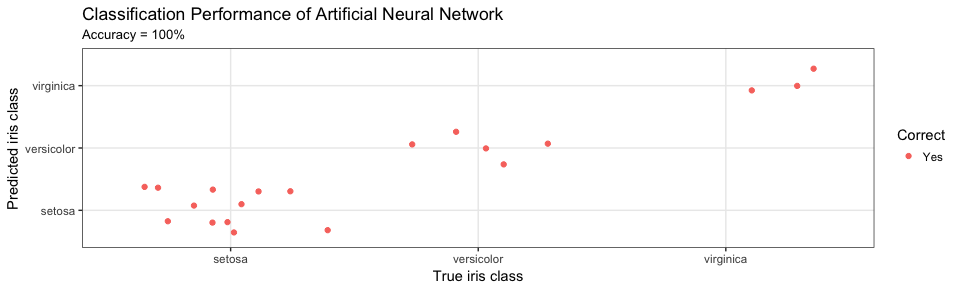
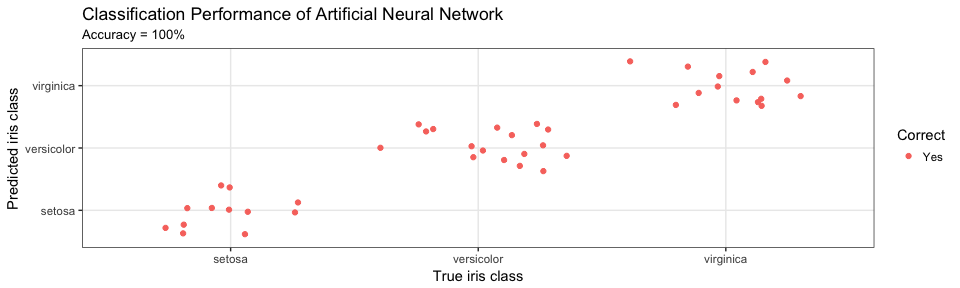
Update README

diff --git a/README.md b/README.md
@@ -1,17 +1,33 @@
 Building a simple neural network using Keras and Tensorflow
 ================
 
-Motivation
-----------
+A minimal example for building your first simple artificial neural network using [Keras and TensorFlow for R](https://tensorflow.rstudio.com/keras/) - Right, let's get to it!
 
-The following is a minimal example for building your first simple artificial neural network using Keras and TensorFlow for R.
+### Data
 
-[TensorFlow for R by Rstudio lives here](https://tensorflow.rstudio.com/keras/).
+[The famous Iris flower data set](https://en.wikipedia.org/wiki/Iris_flower_data_set) contains data to quantify the morphologic variation of Iris flowers of three related species. In other words - A total of 150 observations of 4 input features `Sepal.Length`, `Sepal.Width`, `Petal.Length` and `Petal.Width` and 3 output classes `setosa` `versicolor` and `virginica`, with 50 observations in each class. The distributions of the feature values looks like so:
 
-Gettins started - Install Keras and TensorFlow for R
-----------------------------------------------------
+``` r
+iris %>% as_tibble %>% gather(feature, value, -Species) %>%
+  ggplot(aes(x = feature, y = value, fill = Species)) +
+  geom_violin(alpha = 0.5, scale = "width", position = position_dodge(width = 0.9)) +
+  geom_boxplot(alpha = 0.5, width = 0.2, position = position_dodge(width = 0.9)) +
+  theme_bw()
+```
 
-You can install the Keras for R package from CRAN as follows:
+<img src="README_files/figure-markdown_github/see_iris-1.png" style="display: block; margin: auto;" />
+
+### Aim
+
+Our aim is to connect the 4 input features (`Sepal.Length`, `Sepal.Width`, `Petal.Length` and `Petal.Width`) to the correct output class (`setosa` `versicolor` and `virginica`) using an artificial neural network. For this task, we have chosen the following simple architecture with one input layer with 4 neurons (one for each feature), one hidden layer with 4 neurons and one output layer with 3 neurons (one for each class), all fully connected:
+
+<img src="img/architecture_visualisation.png" width="500px" style="display: block; margin: auto;" />
+
+Our artificial neural network will have a total of 35 parameters: 4 for each input neuron connected to the hidden layer, plus an additional 4 for the associated first bias neuron and 3 for each of the hidden neurons connected to the output layer, plus an additional 3 for the associated second bias neuron. I.e. 4 ⋅ 4 + 4 + 4 ⋅ 3 + 3 = 35
+
+### Install Keras and TensorFlow for R
+
+Before we begin, we need to install [Keras and TensorFlow for R](https://tensorflow.rstudio.com/keras/) as follows:
 
 ``` r
 install.packages("keras")
@@ -24,91 +40,59 @@ library(keras)
 install_keras()
 ```
 
-Naturally, we will also need `TidyVerse`:
+We also need to install [`TidyVerse`](https://www.tidyverse.org/):
 
 ``` r
-# Install from CRAN
 install.packages("tidyverse")
-
-# Or the development version from GitHub
-install.packages("devtools")
-devtools::install_github("hadley/tidyverse")
 ```
 
-Once installed, we simply load the libraries
+### Load libraries
 
 ``` r
 library("keras")
 library("tidyverse")
 ```
 
-Artificial Neural Network Using the Iris Data Set
--------------------------------------------------
-
-Right, let's get to it!
-
-### Data
-
-The famous (Fisher's or Anderson's) `iris` data set contains a total of 150 observations of 4 input features `Sepal.Length`, `Sepal.Width`, `Petal.Length` and `Petal.Width` and 3 output classes `setosa` `versicolor` and `virginica`, with 50 observations in each class. The distributions of the feature values looks like so:
-
-``` r
-iris %>% as_tibble %>% gather(feature, value, -Species) %>%
-  ggplot(aes(x = feature, y = value, fill = Species)) +
-  geom_violin(alpha = 0.5, scale = "width") +
-  theme_bw()
-```
-
-<img src="README_files/figure-markdown_github/see_iris-1.png" style="display: block; margin: auto;" />
-
-### Aim
-
-Our aim is to connect the 4 input features to the correct output class using an artificial neural network. For this task, we have chosen the following simple architecture with one input layer with 4 neurons (one for each feature), one hidden layer with 4 neurons and one output layer with 3 neurons (one for each class), all fully connected:
-
-<img src="img/architecture_visualisation.png" width="500px" style="display: block; margin: auto;" />
-
-Our artificial neural network will have a total of 35 parameters: 4 for each input neuron connected to the hidden layer, plus an additional 4 for the associated first bias neuron and 3 for each of the hidden neurons connected to the output layer, plus an additional 3 for the associated second bias neuron. I.e. 4 ⋅ 4 + 4 + 4 ⋅ 3 + 3 = 35
-
 ### Prepare data
 
 We start with slightly wrangling the iris data set by renaming and scaling the features and converting character labels to numeric:
 
 ``` r
-set.seed(265509)
 nn_dat = iris %>% as_tibble %>%
   mutate(sepal_length = scale(Sepal.Length),
          sepal_width  = scale(Sepal.Width),
          petal_length = scale(Petal.Length),
          petal_width  = scale(Petal.Width),          
-         class_label  = as.numeric(Species) - 1) %>% # Yields 0, 1, 2
-  select(sepal_length, sepal_width, petal_length, petal_width, class_label)
+         class_num    = as.numeric(Species) - 1,  # Yields 0, 1, 2
+         class_label  = Species) %>%
+  select(sepal_length, sepal_width, petal_length, petal_width, class_num, class_label)
 nn_dat %>% head(3)
 ```
 
-    ## # A tibble: 3 x 5
-    ##   sepal_length sepal_width petal_length petal_width class_label
-    ##          <dbl>       <dbl>        <dbl>       <dbl>       <dbl>
-    ## 1       -0.898       1.02         -1.34       -1.31          0.
-    ## 2       -1.14       -0.132        -1.34       -1.31          0.
-    ## 3       -1.38        0.327        -1.39       -1.31          0.
+    ## # A tibble: 3 x 6
+    ##   sepal_length sepal_width petal_length petal_width class_num class_label
+    ##          <dbl>       <dbl>        <dbl>       <dbl>     <dbl> <fct>      
+    ## 1       -0.898       1.02         -1.34       -1.31        0. setosa     
+    ## 2       -1.14       -0.132        -1.34       -1.31        0. setosa     
+    ## 3       -1.38        0.327        -1.39       -1.31        0. setosa
 
-Then, we create indices for splitting the iris data into a training and a test data set. We set aside 20% of the data for testing:
+Then, we split the iris data into a training and a test data set, setting aside 20% of the data for testing:
 
 ``` r
-test_fraction   = 0.20
-n_total_samples = nrow(nn_dat)
-n_train_samples = ceiling((1 - test_fraction) * n_total_samples)
-train_indices   = sample(n_total_samples, n_train_samples)
-n_test_samples  = n_total_samples - n_train_samples
-test_indices    = setdiff(seq(1, n_train_samples), train_indices)
+test_f = 0.20
+nn_dat = nn_dat %>%
+  mutate(partition = sample(c('train','test'), nrow(.), replace = TRUE, prob = c(1 - test_f, test_f)))
 ```
 
-Based on the indices, we can now create training and test data
+Based on the partition, we can now create training and test data
 
 ``` r
-x_train = nn_dat %>% select(-class_label) %>% as.matrix %>% .[train_indices,]
-y_train = nn_dat %>% pull(class_label) %>% .[train_indices] %>% to_categorical(3)
-x_test  = nn_dat %>% select(-class_label) %>% as.matrix %>% .[test_indices,]
-y_test  = nn_dat %>% pull(class_label) %>% .[test_indices] %>% to_categorical(3)
+x_train = nn_dat %>% filter(partition == 'train') %>%
+  select(sepal_length, sepal_width, petal_length, petal_width) %>% as.matrix
+y_train = nn_dat %>% filter(partition == 'train') %>% pull(class_num) %>% to_categorical(3)
+x_test  = nn_dat %>% filter(partition == 'test') %>%
+  select(sepal_length, sepal_width, petal_length, petal_width) %>% as.matrix
+y_test  = nn_dat %>% filter(partition == 'test') %>% pull(class_num) %>% to_categorical(3)
 ```
 
 ### Set Architecture
@@ -152,13 +136,11 @@ Lastly we fit the model and save the training progres in the `history` object:
 ``` r
 history = model %>% fit(
   x = x_train, y = y_train,
-  epochs = 200,
-  batch_size = 20,
+  epochs           = 200,
+  batch_size       = 20,
   validation_split = 0
 )
-plot(history) +
-  ggtitle("Training a neural network based classifier on the iris data set") +
-  theme_bw()
+plot(history)
 ```
 
 <img src="README_files/figure-markdown_github/fit_model-1.png" style="display: block; margin: auto;" />
@@ -173,23 +155,24 @@ print(perf)
 ```
 
     ## $loss
-    ## [1] 0.1849153
+    ## [1] 0.2977438
     ## 
     ## $acc
     ## [1] 1
 
-``` r
-classes = iris %>% as_tibble %>% pull(Species) %>% unique
-y_pred  = model %>% predict_classes(x_test)
-y_true  = nn_dat %>% pull(class_label) %>% .[test_indices]
+and we can visualise the confusion matrix like so:
 
-tibble(y_true = classes[y_true + 1], y_pred = classes[y_pred + 1],
-       Correct = ifelse(y_true == y_pred, "Yes", "No") %>% factor) %>% 
-  ggplot(aes(x = y_true, y = y_pred, colour = Correct)) +
+``` r
+nn_dat %>% filter(partition == 'test') %>%
+  mutate(class_num = factor(class_num),
+         y_pred    = factor(predict_classes(model, x_test)),
+         Correct   = factor(ifelse(class_num == y_pred, "Yes", "No"))) %>% ggplot(aes(x = class_num, y = y_pred, colour = Correct)) +
   geom_jitter() +
+  scale_x_discrete(labels = levels(nn_dat$class_label)) +
+  scale_y_discrete(labels = levels(nn_dat$class_label)) +
   theme_bw() +
   ggtitle(label = "Classification Performance of Artificial Neural Network",
-          subtitle = str_c("Accuracy = ",round(perf$acc,3)*100,"%")) +
+          subtitle = str_c("Accuracy = ", round(perf$acc, 3) * 100, "%")) +
   xlab(label = "True iris class") +
   ylab(label = "Predicted iris class")
 ```
@@ -198,7 +181,7 @@ tibble(y_true = classes[y_true + 1], y_pred = classes[y_pred + 1],
 
 ### Conclusion
 
-I hope this illustrated just how easy it is to get started building artificial neural network using Keras and TensorFlow in R. With relative ease, we created a 3-class predictor with an accuracy of 100%. This was a basic minimal example. The network can be expanded to create Deep Learning networks and also the entire TensorFlow API is available.
+I hope this little post illustrated how easy it is to get started building artificial neural network using Keras and TensorFlow in R. With relative ease, we created a 3-class predictor with an accuracy of 100%. This was a basic minimal example. The network can be expanded to create Deep Learning networks and furhtermore, the entire TensorFlow API is available.
 
 Enjoy and Happy Learning!
 
